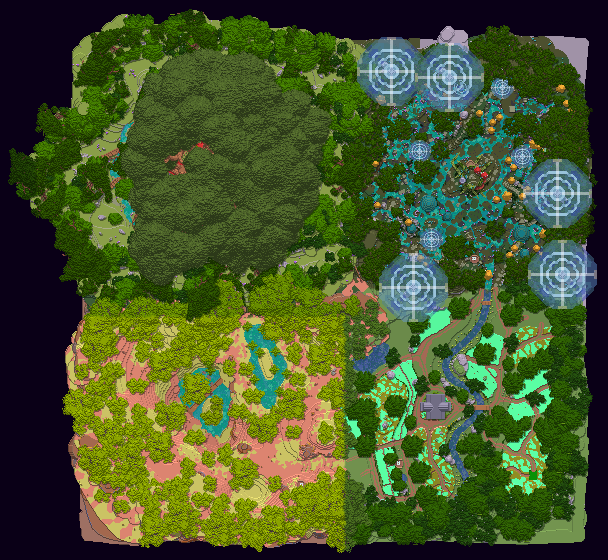
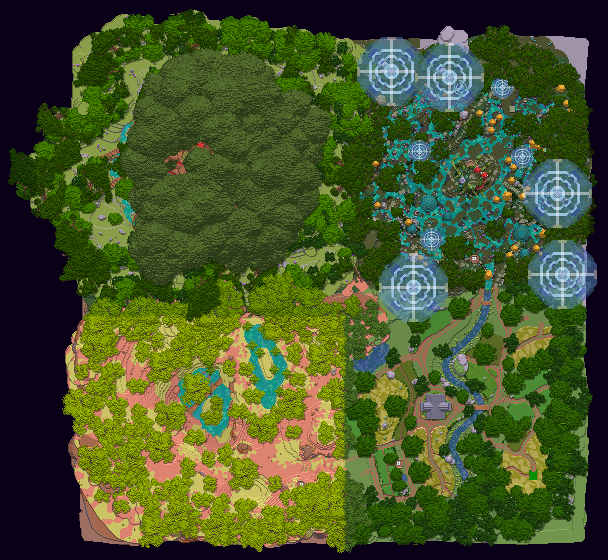
feat: Map Regions Improvemnts P.5

diff --git a/src/routes/MapPage.tsx b/src/routes/MapPage.tsx
@@ -6,7 +6,7 @@
 
 import { FC, useEffect, useMemo, useState } from "react";
 import { useLocation, Link } from "react-router-dom";
-import { ArrowRightLeft, Undo2 } from "lucide-react";
+import { ArrowRightLeft, Undo2, MapPinned  } from "lucide-react";
 import { useTranslation } from "react-i18next";
 import {
     LevelBG_Color,
@@ -94,6 +94,7 @@ const MapPage: FC = () => {
     const [fishingVisible, setFishingVisible] = useState(true);
     const [isSidebarOpen, setIsSidebarOpen] = useState(true);
     const [showRegions, setShowRegions] = useState(false);
+    const [showSpawnpoints, setShowSpawnpoints] = useState(false);
 
     const mapConfig = mapData[selectedMapKey];
     const markers = allMarkers[selectedMapKey] || {};
@@ -352,9 +353,11 @@ const MapPage: FC = () => {
                     <h2 className="text-lg font-semibold text-gray-300 mb-2 flex items-center gap-2">
                         🌗 {t("mappage.mapOpacity")}
                     </h2>
+
+                    {/* Show Regions Toggle */}
                     <label
                         key="showRegions"
-                        className="flex items-center gap-2 text-sm text-gray-200 cursor-pointer select-none"
+                        className="flex mb-1 text-xs items-center gap-2 text-sm text-gray-200 cursor-pointer select-none"
                     >
                         <input
                             type="checkbox"
@@ -380,6 +383,38 @@ const MapPage: FC = () => {
                         </span>
                         {t("mappage.showMapRegions")}
                     </label>
+
+                    {/* Show Regions Toggle */}
+                    <label
+                        key="showSpawnpoints"
+                        className="flex text-xs items-center gap-2 text-sm text-gray-200 cursor-pointer select-none"
+                    >
+                        <input
+                            type="checkbox"
+                            checked={showSpawnpoints}
+                            onChange={() => setShowSpawnpoints((prev) => !prev)}
+                            className="hidden"
+                        />
+                        <span
+                            className={`flex items-center justify-center w-4 h-4 rounded transition-colors duration-200 ${
+                                showSpawnpoints
+                                    ? "bg-green-600 hover:bg-green-500"
+                                    : "bg-gray-700 hover:bg-gray-600"
+                            }`}
+                        >
+                            {showSpawnpoints ? (
+                                <Check
+                                    strokeWidth={3}
+                                    className="w-3 h-3 text-white"
+                                />
+                            ) : (
+                                <EyeOff className="w-3 h-3 hidden text-white" />
+                            )}
+                        </span>
+                        {t("mappage.showBestiarySpawnpoints")}
+                    </label>
+
+
                     <input
                         type="range"
                         min="0.2"

diff --git a/src/components/map/mapRegions.ts b/src/components/map/mapRegions.ts
@@ -66,20 +66,20 @@ export const regionsData: Record<string, Record<string, L.LatLngExpression[]>> =
             [75, 255],
             [130, 250],
             [200, 265],
-            [260, 235],
-            [230, 195],
-            [230, 155],
-            [205, 125],
-            [230, 45],
-            [230, 0],
+            [265, 235],
+            [255, 200],
+            [255, 155],
+            [255, 125],
+            [255, 45],
+            [255, 0],
         ],
         jungle: [
-            [260, 235],
-            [230, 195],
-            [230, 155],
-            [205, 125],
-            [230, 45],
-            [230, 0],
+            [265, 235],
+            [255, 200],
+            [255, 155],
+            [255, 125],
+            [255, 45],
+            [255, 0],
             [528, 0],
             [528, 270],
             [480, 270],
@@ -89,7 +89,7 @@ export const regionsData: Record<string, Record<string, L.LatLngExpression[]>> =
             [290, 260],
         ],
         dark_jungle: [
-            [260, 235],
+            [265, 235],
             [200, 265],
             [210, 380],
             [300, 528],
@@ -212,41 +212,43 @@ export const regionsData: Record<string, Record<string, L.LatLngExpression[]>> =
         ],
     },
     sandwhisper_dunes: {
-    },
-};
-
-export const regionsColor: Record<string, Record<string, string>> = {
-    spawn: {
-    },
-    kokoko: {
-        beach: "#f4e285",
-        jungle: "#4caf50",
-        dark_jungle: "#2e7d32",
-        burned_jungle: "#a1887f",
-    },
-    quadra_plains: {
-        plains: "#aed581",
-        swamp: "#7cb342",
-        savanna: "#ffb300",
-        mystic_forest: "#8e24aa",
-    },
-    bamboo_peak: {
-        bamboo_plains: "#81c784",
-        cherry_forest: "#f48fb1",
-        bamboo_jungle: "#4db6ac",
-        divine_mountains_low: "#90a4ae",
-        divine_mountains_top: "#4b6572ff",
-    },
-    frostbite_fortress: {
-        snow_plains: "#e1f5fe",
-        snow_forest: "#bbdefb",
-        glacier: "#90caf9",
-        steampunk_village: "#64b5f6",
-    },
-    sandwhisper_dunes: {
-        desert: "#fff176",
-        desert_village: "#ffd54f",
-        pyramid: "#ffb300",
-        canyon: "#f57c00",
+        desert: [
+            [330, 0],
+            [330, 170],
+            [220, 225],
+            [370, 380],
+            [752, 380],
+            [752, 150],
+            [450, 0],
+        ],
+        desert_village: [
+            [0, 0],
+            [330, 0],
+            [330, 170],
+            [220, 225],
+            [100, 225],
+            [60, 300],
+            [60, 600],
+            [0, 600],
+        ],
+        pyramid: [
+            [370, 752],
+            [370, 550],
+            [330, 460],
+            [370, 380],
+            [752, 380],
+            [752, 752],
+        ],
+        canyon: [
+            [370, 380],
+            [220, 225],
+            [100, 225],
+            [60, 300],
+            [60, 600],
+            [120, 752],
+            [370, 752],
+            [370, 550],
+            [330, 460],
+        ]  
     },
 };

diff --git a/src/components/InteractiveMap.tsx b/src/components/InteractiveMap.tsx
@@ -26,7 +26,6 @@ import {
     mapNameRegions,
     regionsData,
     getMapNameKey,
-    regionsColor,
 } from "./map/mapRegions";
 import { LevelBG_Gradient, LevelTextColor } from "./editor/LevelBadge";
 
@@ -264,7 +263,7 @@ const InteractiveMap: React.FC<
                                     <span className="text-sm items-center align-middle flex flex-col">
                                         <img
                                             src={markerIconUrl}
-                                            className="w-8 h-8 mb-1"
+                                            className="w-12 h-12 mb-1"
                                         />
                                         {t(properties.name || "", {
                                             ns: "npc",
